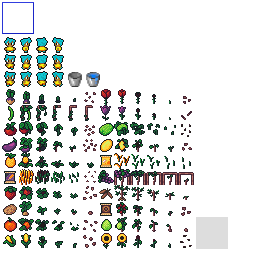
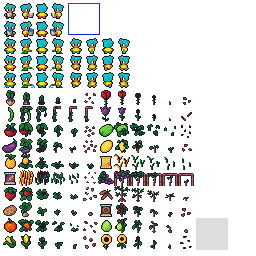
Set up water related animations

diff --git a/garden_2311_working/core/src/com/garden/game/world/Unit.java b/garden_2311_working/core/src/com/garden/game/world/Unit.java
@@ -8,6 +8,7 @@ import com.badlogic.gdx.graphics.g2d.Sprite;
 import com.badlogic.gdx.graphics.g2d.TextureRegion;
 import com.badlogic.gdx.maps.tiled.TiledMapTileLayer;
 import com.badlogic.gdx.math.Vector2;
+import com.badlogic.gdx.scenes.scene2d.Action;
 import com.badlogic.gdx.scenes.scene2d.Actor;
 import com.badlogic.gdx.scenes.scene2d.actions.MoveToAction;
 import com.badlogic.gdx.scenes.scene2d.actions.RunnableAction;
@@ -24,7 +25,7 @@ public class Unit extends Actor {
     String assetName;
     //Sprite sprite;
     public int maxX, minX, maxY, minY, direc;
-    public ArrayList<Animation<TextureRegion>> walkAnimations, stopAnimations;
+    public ArrayList<Animation<TextureRegion>> walkAnimations, stopAnimations, bucketAnimations, wateringAnimations;
     public Animation<TextureRegion> activeAnimation;
     public float elapsedTime;
     TextureRegion drawThis;
@@ -37,6 +38,9 @@ public class Unit extends Actor {
         //this.sprite = app.assets.textureAtlas.createSprite("character000");
         this.walkAnimations = app.assets.walkAnimations;
         this.stopAnimations = app.assets.stopAnimations;
+        this.bucketAnimations = app.assets.bucketAnimations;
+        this.wateringAnimations = app.assets.wateringAnimations;
+
         maxX = Constants.MAP_WIDTH_TILES; // Hardcoded...
         maxY = Constants.MAP_HEIGHT_TILES;
         minX = 0;
@@ -99,8 +103,9 @@ public class Unit extends Actor {
     public void act(float delta) {
         super.act(delta);
         if(!canMove((int) getX()/Constants.TILE_WIDTH, (int) getY()/Constants.TILE_HEIGHT)) {
-            clearActions();
-            activeAnimation = stopAnimations.get(direc);
+            //clearActions();
+
+            //activeAnimation = stopAnimations.get(direc);
         }
         drawThis = activeAnimation.getKeyFrame(elapsedTime, true);
     }
@@ -194,18 +199,27 @@ public class Unit extends Actor {
         float duration = (float) Math.sqrt(Math.pow(x-getX(), 2) + Math.pow(y-getY(), 2))/100f;
         moveToAction.setDuration(duration);
 
-        final Sprite bucket = new Sprite(app.assets.buckets[1]);
-        bucket.setPosition(x, y);
-        // Add collecting water animation.
-        /*RunnableAction run = new RunnableAction();
-        run.setRunnable(new Runnable() {
+        RunnableAction getMoreWater = new RunnableAction();
+        getMoreWater.setRunnable(new Runnable() {
+
             @Override
             public void run() {
-                bucket.draw(app.gameScreen.world.getBatch());
-                //app.gameScreen.world.getBatch().;
+                activeAnimation=bucketAnimations.get(direc);
+
+            }
+        });
+
+        /*RunnableAction stop = new RunnableAction();
+        stop.setRunnable(new Runnable() {
+
+            @Override
+            public void run() {
+                activeAnimation=stopAnimations.get(direc);
+
             }
         });*/
-        SequenceAction sequence = new SequenceAction(moveToAction);
+
+        SequenceAction sequence = new SequenceAction(moveToAction, getMoreWater);
 
         addAction(sequence);
 

diff --git a/garden_2311_working/core/src/com/garden/game/tools/Assets.java b/garden_2311_working/core/src/com/garden/game/tools/Assets.java
@@ -27,13 +27,14 @@ public class Assets extends AssetManager {
     public TextureRegionDrawable btnNextTurn, btnSetting, btnTalent,  goldIcon, waterIcon , dirtIcon, inGameBorder, buttonBorder;
     public TiledMapTileSet tileSet, tileSetNew;
     public TiledMapTileLayer.Cell grassCell;
-    public ArrayList<Animation<TextureRegion>> walkAnimations, stopAnimations;
+    public ArrayList<Animation<TextureRegion>> walkAnimations, stopAnimations, bucketAnimations, wateringAnimations;
 
     public Music menuMusic, inGameMusic, ambientSound_Bird;
     public Sound soundButtonPress, soundEnd, soundGameOver;
     public float musicVolume = 1.0f;
     public TextureRegion[][] plantTextures;
-    public TextureRegion[] buckets;
+    public TextureRegion[][] bucketTextures;
+
     
     public Assets() {
         loadFiles();
@@ -44,7 +45,7 @@ public class Assets extends AssetManager {
         initWalkAnimations();
         initStopAnimations();
         initPlantSprites();
-        initBucketSprites();
+        initWateringAnimations();
 
     }
 
@@ -115,6 +116,34 @@ public class Assets extends AssetManager {
 
     }
 
+    private void initWateringAnimations() {
+        this.bucketAnimations = new ArrayList<>();
+        this.wateringAnimations = new ArrayList<>();
+        TextureAtlas.AtlasRegion atlasRegion = textureAtlas.findRegion("M_1_Water");
+        TextureRegion[][] tmpFrames = atlasRegion.split(16,17);
+
+        int index = 0;
+        for (int i = 0; i < 4; i++) {
+            TextureRegion[] animationFrames = new TextureRegion[3];
+            for (int j = 0; j < 2; j++) {
+                animationFrames[index++] = tmpFrames[j][i];
+            }
+            index = 0;
+            this.bucketAnimations.add(new Animation<TextureRegion>(1f/5f, animationFrames));
+        }
+
+        index = 0;
+        for (int i = 0; i < 4; i++) {
+            TextureRegion[] animationFrames = new TextureRegion[3];
+            for (int j = 2; j < 5; j++) {
+                animationFrames[index++] = tmpFrames[j][i];
+            }
+            index = 0;
+            this.wateringAnimations.add(new Animation<TextureRegion>(1f/5f, animationFrames));
+        }
+
+    }
+
     // Initialize textures used for plants.
     private void initPlantSprites() {
         // Change to this size!!
@@ -136,16 +165,7 @@ public class Assets extends AssetManager {
 
     }
 
-    // Initialize textures used for plants.
-    private void initBucketSprites() {
-        // Change to this size!!
-        buckets = new TextureRegion[2];
-        TextureAtlas.AtlasRegion atlasRegion = textureAtlas.findRegion("buckets");
-        TextureRegion[][] tmp = atlasRegion.split(16,15);
-        buckets[0] = tmp[0][0];
-        buckets[1] = tmp[0][1];
 
-    }
 
     // Load map, textures, sprites
     public void loadFiles(){

diff --git a/garden_2311_working/core/src/com/garden/game/screens/GameScreen.java b/garden_2311_working/core/src/com/garden/game/screens/GameScreen.java
@@ -270,6 +270,7 @@ public class GameScreen extends AbstractScreen {
                         if (world.user.canPlant(Constants.GRASS, world.hoveredX * Constants.TILE_WIDTH, world.hoveredY * Constants.TILE_HEIGHT)) {
                             Plant plant = actorFactory.createPlant(Constants.CUCUMBER, world.hoveredX, world.hoveredY);
                             world.user.plant(world.hoveredX * Constants.TILE_WIDTH, world.hoveredY * Constants.TILE_HEIGHT, plant);
+                            //world.user.getMoreWater(world.hoveredX * Constants.TILE_WIDTH, world.hoveredY * Constants.TILE_HEIGHT);
                         }
                         dropOutTable.clearChildren();
                         dropOutTable.remove();
